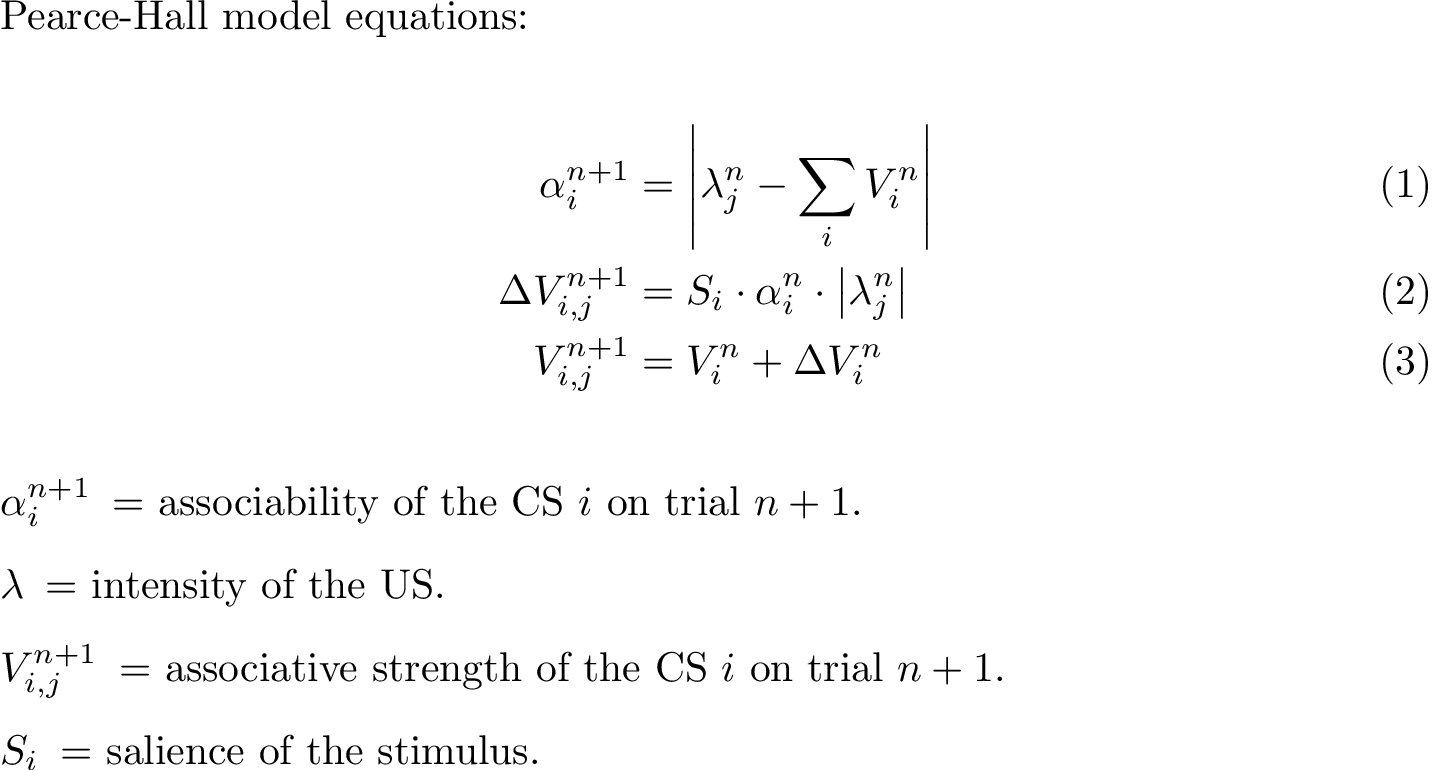
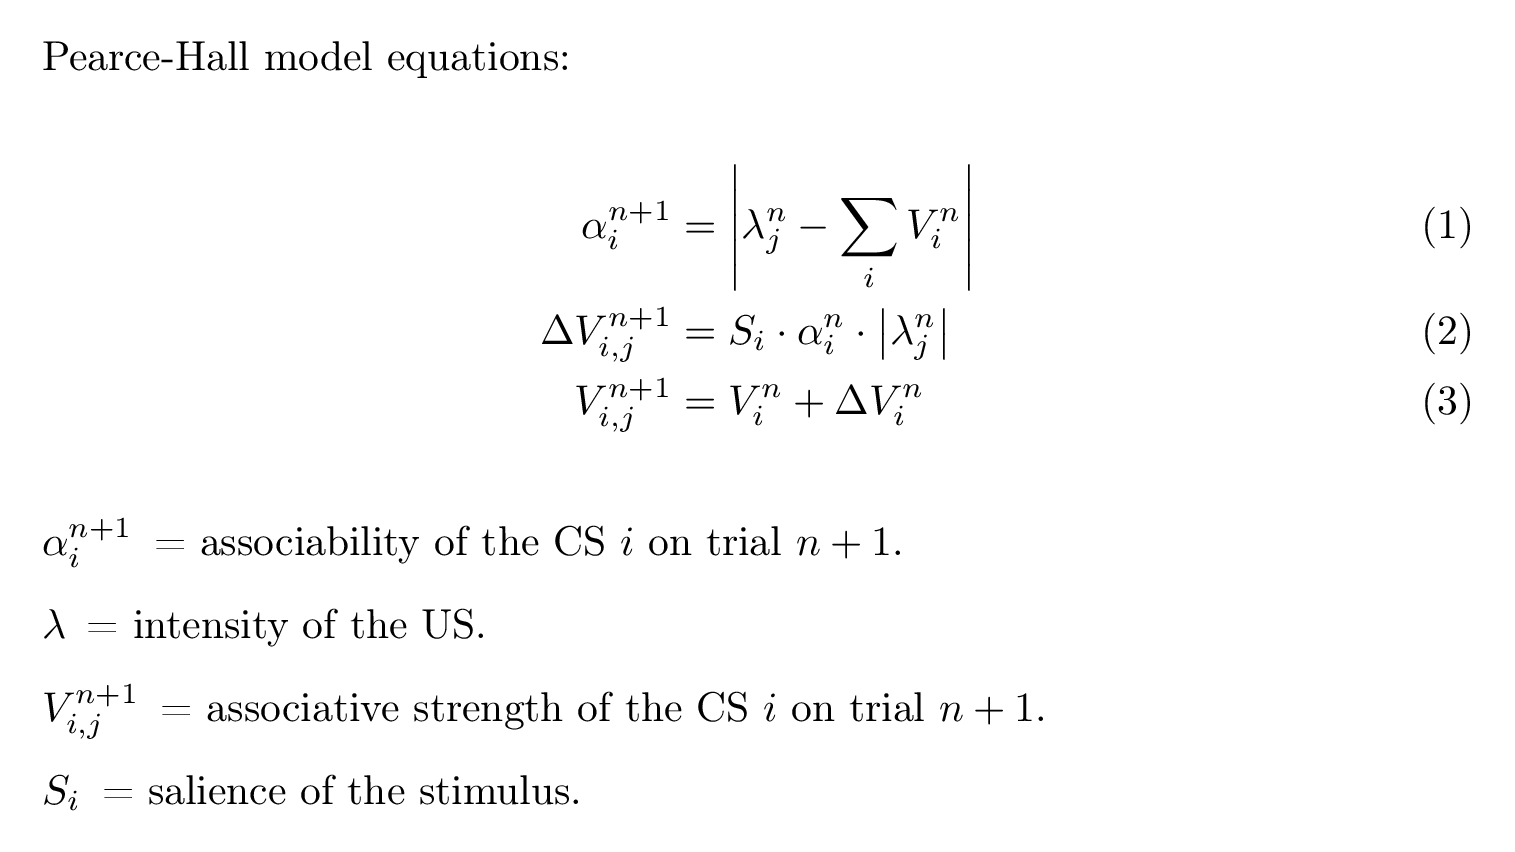
Fixing model infos.

diff --git a/resources/LePelley.tex b/resources/LePelley.tex
@@ -1,6 +1,13 @@
-\documentclass[varwidth]{standalone}
+\documentclass[border=10pt,varwidth]{standalone}
+\usepackage[T1]{fontenc}
+\usepackage[utf8]{inputenc}
 \usepackage{amsmath}
 \usepackage{amssymb}
+\usepackage{etoolbox}
+
+\patchcmd{\thebibliography}{\section*{\refname}}{}{}{}
+
+\bibliographystyle{plain}
 
 \begin{document}
 \newcommand{\eks}{\textsf{x}}
@@ -33,5 +40,8 @@
 			\end{aligned}
 	\end{gathered}
 \end{gather*}
+
+\nocite{LePelley2004}
+\bibliography{bibliography}
 
 \end{document}

diff --git a/resources/PKH.tex b/resources/PKH.tex
@@ -1,6 +1,14 @@
-\documentclass[varwidth]{standalone}
+\documentclass[border=10pt,varwidth]{standalone}
 \usepackage{amsmath}
 \usepackage{amssymb}
+\usepackage[T1]{fontenc}
+\usepackage[utf8]{inputenc}
+\usepackage{url}
+\usepackage{etoolbox}
+
+\patchcmd{\thebibliography}{\section*{\refname}}{}{}{}
+
+\bibliographystyle{plain}
 
 \begin{document}
 \newcommand{\eks}{\textsf{x}}

diff --git a/resources/PH.tex b/resources/PH.tex
@@ -1,6 +1,14 @@
-\documentclass[varwidth]{standalone}
+\documentclass[border=10pt,varwidth]{standalone}
 \usepackage{amsmath}
 \usepackage{amssymb}
+\usepackage[T1]{fontenc}
+\usepackage[utf8]{inputenc}
+\usepackage{url}
+\usepackage{etoolbox}
+
+\patchcmd{\thebibliography}{\section*{\refname}}{}{}{}
+
+\bibliographystyle{plain}
 
 \begin{document}
 Pearce-Hall model equations:

diff --git a/resources/RW.tex b/resources/RW.tex
@@ -1,6 +1,14 @@
-\documentclass[varwidth]{standalone}
+\documentclass[border=10pt,varwidth]{standalone}
 \usepackage{amsmath}
 \usepackage{amssymb}
+\usepackage[T1]{fontenc}
+\usepackage[utf8]{inputenc}
+\usepackage{url}
+\usepackage{etoolbox}
+
+\patchcmd{\thebibliography}{\section*{\refname}}{}{}{}
+
+\bibliographystyle{plain}
 
 \begin{document}
 \begin{center}

diff --git a/AdaptiveType.py b/AdaptiveType.py
@@ -245,6 +245,10 @@ class LePelleyHybrid(AdaptiveType):
         )
 
     def step(self, s: Stimulus, rp: RunParameters):
+        # Ignore likely dummy stimuli
+        if s.assoc == 0 and s.alpha_mack == 0 and s.alpha_hall == 0:
+            return
+            
         rho = rp.lamda - (rp.sigmaE - rp.sigmaI)
 
         VXe = rp.sigmaE - s.Ve

diff --git a/resources/RW-Linear.tex b/resources/RW-Linear.tex
@@ -1,5 +1,13 @@
-\documentclass[varwidth]{standalone}
+\documentclass[border=10pt,varwidth]{standalone}
 \usepackage{amsmath}
+\usepackage[T1]{fontenc}
+\usepackage[utf8]{inputenc}
+\usepackage{url}
+\usepackage{etoolbox}
+
+\patchcmd{\thebibliography}{\section*{\refname}}{}{}{}
+
+\bibliographystyle{plain}
 
 \begin{document}
 \begin{center}

diff --git a/resources/Extended_Mack.tex b/resources/Extended_Mack.tex
@@ -38,7 +38,7 @@
 		\end{cases}
 \end{gather*}
 
-\nocite{lepelley}
+\nocite{mackintosh_original}
 \bibliography{bibliography}
 
 \end{document}
